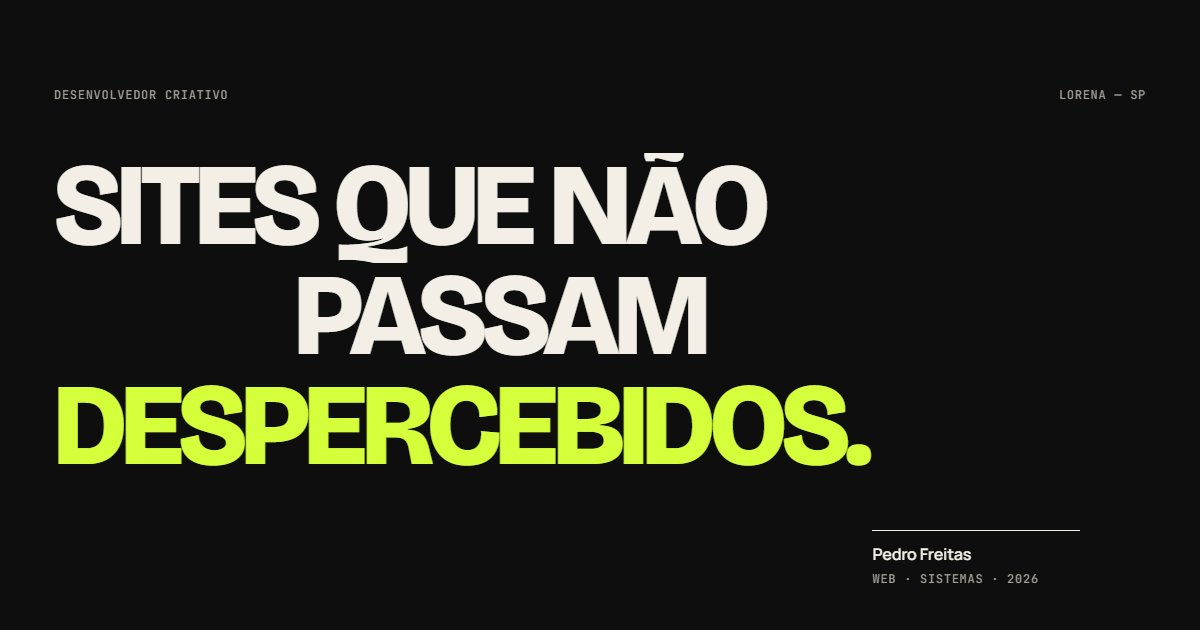
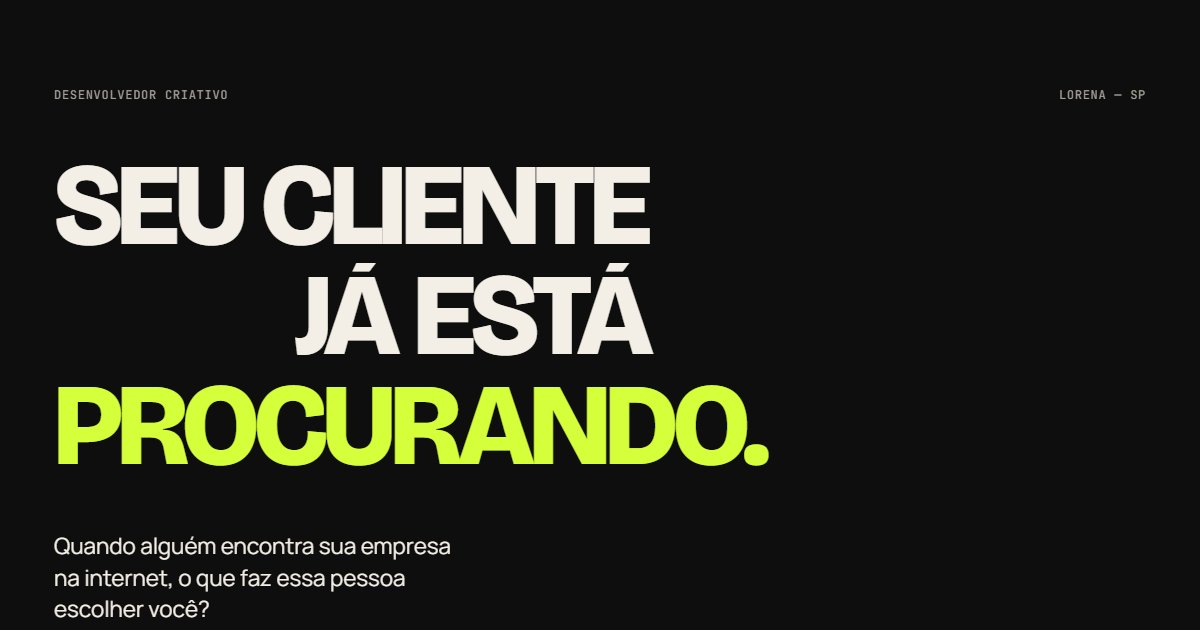
Texto focado no cliente: 'Seu cliente ja esta procurando'
- topo com a pergunta; o dado 8 em cada 10 (BrightLocal, 2026) no lugar do
  'sobre mim'; 'Se sua empresa nao tem um site, outra pode ter' com os 4
  pontos; 'E isso que eu construo' antes dos projetos
- titulo, descricao e imagem de previa do link falam do cliente
- projetos, sistemas, como funciona, contato e menu sem mudanca

Claude-Session: https://claude.ai/code/session_01ATxyj6QgQmaSyEHYf8BGKL

diff --git a/public/index.html b/public/index.html
@@ -3,8 +3,8 @@
 <head>
   <meta charset="utf-8">
   <meta name="viewport" content="width=device-width, initial-scale=1">
-  <title>Pedro Freitas · Sites e sistemas para empresas de Lorena e região</title>
-  <meta name="description" content="Sites que fazem o cliente chamar no WhatsApp, e sistemas pra organizar o negócio. Veja os modelos e os sistemas que eu já fiz.">
+  <title>Seu cliente já está procurando · Sites para empresas de Lorena e região · Pedro Freitas</title>
+  <meta name="description" content="Quando alguém procura sua empresa na internet, o que encontra? Sites e sistemas para empresas de Lorena e região, com o seu WhatsApp.">
   <meta name="theme-color" content="#fbfaf6">
   <script>
     // Tema: claro por padrão; a pessoa troca no botão da barra e o navegador dela lembra.
@@ -24,8 +24,8 @@
 
   <meta property="og:type" content="website">
   <meta property="og:url" content="https://pedrofreitasdev.vercel.app/">
-  <meta property="og:title" content="Pedro Freitas · Sites e sistemas para empresas">
-  <meta property="og:description" content="Sites que fazem o cliente chamar no WhatsApp. Lorena e região.">
+  <meta property="og:title" content="Seu cliente já está procurando.">
+  <meta property="og:description" content="Quando alguém encontra sua empresa na internet, o que faz essa pessoa escolher você? Sites para empresas de Lorena e região.">
   <meta property="og:image" content="https://pedrofreitasdev.vercel.app/og.jpg">
   <meta property="og:image:width" content="1200">
   <meta property="og:image:height" content="630">
@@ -78,10 +78,11 @@
 
       <div class="topo__centro">
         <h1 class="topo__titulo">
-          <span class="linha linha--a"><span>Sites que não</span></span>
-          <span class="linha linha--b"><span>passam</span></span>
-          <span class="linha linha--c"><span class="marca">despercebidos.</span></span>
+          <span class="linha linha--a"><span>Seu cliente</span></span>
+          <span class="linha linha--b"><span>já está</span></span>
+          <span class="linha linha--c"><span class="marca">procurando.</span></span>
         </h1>
+        <p class="topo__pergunta">Quando alguém encontra sua empresa na internet, o que faz essa pessoa escolher você?</p>
         <p class="topo__assinatura">
           <span class="topo__nome">Pedro Freitas</span>
           <span class="mono">Web · Sistemas · 2026</span>
@@ -90,7 +91,7 @@
 
       <div class="topo__baixo mono">
         <a class="topo__rolar" href="#sobre"><span aria-hidden="true">↓</span> Explorar</a>
-        <a class="topo__recente sublinha" href="#trabalhos">Recente — Forno de Pedra <span aria-hidden="true">↓</span></a>
+        <a class="topo__recente sublinha" href="#trabalhos">Ver exemplos <span aria-hidden="true">↓</span></a>
       </div>
     </section>
 
@@ -102,28 +103,53 @@
       </div>
     </div>
 
-    <!-- 2 · SOBRE -->
-    <section class="secao sobre" id="sobre" aria-labelledby="sobre-titulo">
-      <p class="rotulo mono">(01) Sobre</p>
-      <h2 class="sobre__titulo revela" id="sobre-titulo">
-        <span class="linha"><span>Faço sites</span></span>
-        <span class="linha"><span>que as pessoas</span></span>
-        <span class="linha"><span class="marca">lembram.</span></span>
+    <!-- 2 · O DADO: o cliente pesquisa antes. O id continua "sobre" pro menu não quebrar. -->
+    <section class="secao dado" id="sobre" aria-labelledby="dado-titulo">
+      <p class="rotulo mono">(01) Antes de escolher</p>
+      <div class="dado__grade">
+        <div class="dado__destaque">
+          <h2 class="dado__numero revela" id="dado-titulo"><span class="linha"><span>8 em cada 10</span></span></h2>
+          <p class="dado__legenda sobe">consumidores pesquisaram negócios locais na internet recentemente.</p>
+          <p class="dado__fonte mono sobe">Fonte: BrightLocal, 2026</p>
+        </div>
+        <div class="dado__textos">
+          <p class="sobe">Antes de mandar uma mensagem, pedir um orçamento ou visitar uma empresa, muita gente pesquisa primeiro.</p>
+          <p class="sobe">E quando isso acontece, seu site ajuda a decidir se sua empresa parece <strong>profissional, confiável e preparada pra atender.</strong></p>
+        </div>
+      </div>
+    </section>
+
+    <!-- 3 · A COMPARAÇÃO: sem site, o cliente vai pra outra -->
+    <section class="secao comparar" aria-labelledby="comparar-titulo">
+      <p class="rotulo mono">(02) A primeira impressão</p>
+      <h2 class="comparar__titulo revela" id="comparar-titulo">
+        <span class="linha"><span>Se sua empresa</span></span>
+        <span class="linha"><span>não tem um site,</span></span>
+        <span class="linha"><span class="marca">outra pode ter.</span></span>
       </h2>
-      <div class="sobre__lado">
-        <p class="sobe">Crio sites rápidos, modernos e pensados pra transformar visita em conversa no WhatsApp. Para comércio, consultório, restaurante e quem mais tiver o que mostrar.</p>
-        <p class="mono sobe">HTML · CSS · JavaScript<br>Feito à mão, sem template<br>No ar pela Vercel</p>
+      <div class="comparar__grade">
+        <div class="comparar__textos">
+          <p class="sobe">Quando alguém procura o serviço que você oferece, provavelmente vai comparar opções.</p>
+          <p class="sobe">Um bom site deixa claro, em poucos segundos:</p>
+        </div>
+        <ol class="pontos">
+          <li class="sobe"><span class="mono">01</span>Quem você é</li>
+          <li class="sobe"><span class="mono">02</span>O que você faz</li>
+          <li class="sobe"><span class="mono">03</span>Por que escolher sua empresa</li>
+          <li class="sobe"><span class="mono">04</span>Como entrar em contato</li>
+        </ol>
       </div>
     </section>
 
     <!-- 3 · TRABALHOS -->
     <section class="trabalhos" id="trabalhos" aria-labelledby="trabalhos-titulo">
       <div class="secao trabalhos__cabeca">
-        <p class="rotulo mono">(02) Trabalhos · 06 projetos</p>
+        <p class="rotulo mono">(03) Trabalhos · 06 projetos</p>
         <h2 class="gigante revela" id="trabalhos-titulo">
-          <span class="linha"><span>Trabalhos</span></span>
-          <span class="linha linha--recuo"><span>selecionados</span></span>
+          <span class="linha"><span>É isso que</span></span>
+          <span class="linha linha--recuo"><span>eu construo.</span></span>
         </h2>
+        <p class="trabalhos__apoio sobe">Seu site precisa fazer esse trabalho por você.</p>
       </div>
 
       <!-- SITES -->
@@ -235,7 +261,7 @@
     <!-- 4 · COMO FUNCIONA -->
     <section class="secao passos" aria-labelledby="passos-titulo">
       <div class="passos__cabeca">
-        <p class="rotulo mono">(03) Como funciona</p>
+        <p class="rotulo mono">(04) Como funciona</p>
         <h2 class="passos__titulo revela" id="passos-titulo"><span class="linha"><span>Do primeiro oi</span></span><span class="linha"><span>ao site no ar.</span></span></h2>
       </div>
       <ol class="passos__lista">
@@ -247,7 +273,7 @@
 
     <!-- 5 · CONTATO -->
     <section class="secao contato" id="contato" aria-labelledby="contato-titulo">
-      <p class="rotulo mono">(04) Contato</p>
+      <p class="rotulo mono">(05) Contato</p>
       <div class="contato__grade">
         <h2 class="contato__titulo revela" id="contato-titulo">
           <span class="linha"><span>Bora colocar sua</span></span>

diff --git a/public/css/estilo.css b/public/css/estilo.css
@@ -194,7 +194,7 @@ a:hover .seta, a:focus-visible .seta { transform: translate(3px, -3px); }
 .topo__centro { align-self: center; display: grid; gap: 2.4rem; padding: 3rem 0 2rem; }
 
 .topo__titulo {
-  font-size: clamp(2.2rem, min(10.6vw, 8.4vw + 1rem), 7.6rem);   /* ~120px no computador: forte, sem ocupar a tela de ponta a ponta */
+  font-size: clamp(2.4rem, min(12.4vw, 8.4vw + 1rem), 7.6rem);   /* ~120px no computador; no celular cresce até caber "PROCURANDO." */
   letter-spacing: -.045em;
   line-height: .9;
   translate: 0 calc(var(--p) * -70px);
@@ -241,6 +241,15 @@ a:hover .seta, a:focus-visible .seta { transform: translate(3px, -3px); }
 }
 @keyframes risca { to { transform: scaleX(1); } }
 .topo__nome { font: 600 1rem/1.2 var(--sem); letter-spacing: -.01em; }
+/* a pergunta que o dono da empresa tem que se fazer: logo abaixo do título, antes da assinatura */
+.topo__pergunta {
+  max-width: 30ch;
+  font-size: clamp(1.05rem, 1.9vw, 1.4rem);
+  line-height: 1.4;
+  translate: 0 calc(var(--p) * -40px);
+  opacity: 0;
+  animation: aparece-leve .8s ease .6s forwards;
+}
 .topo__assinatura .mono { color: var(--apagado); }
 @keyframes aparece-leve { to { opacity: 1; } }
 
@@ -266,16 +275,40 @@ a:hover .seta, a:focus-visible .seta { transform: translate(3px, -3px); }
 .faixa__trilho span { padding-right: .5em; font: 800 clamp(1.1rem, 2.8vw, 2rem)/1 var(--titulo); letter-spacing: -.03em; text-transform: uppercase; white-space: nowrap; }
 @keyframes faixa { to { transform: translateX(-50%); } }
 
-/* ---------- 2 · sobre ---------- */
-.sobre__titulo { font-size: clamp(2.3rem, 7.4vw, 6.4rem); }
-.sobre__lado { display: grid; gap: 1.6rem; max-width: 30rem; margin: 2.8rem 0 0 auto; }
-.sobre__lado p:first-child { font-size: clamp(1.05rem, 1.8vw, 1.3rem); line-height: 1.45; }
-.sobre__lado .mono { color: var(--apagado); line-height: 1.9; }
+/* ---------- 2 · o dado: o número é a peça principal, o texto vem em blocos curtos ---------- */
+.dado__grade { display: grid; gap: 3rem; }
+.dado__numero { font-size: clamp(3.2rem, 15vw, 11rem); letter-spacing: -.05em; line-height: .86; }
+.dado__numero .linha { white-space: nowrap; }   /* "8 em cada 10" nunca quebra: é uma coisa só */
+.dado__legenda { margin-top: 1.2rem; font-size: clamp(1.1rem, 2vw, 1.5rem); line-height: 1.35; max-width: 28ch; }
+.dado__fonte { margin-top: 1rem; color: var(--apagado); }
+.dado__textos { display: grid; gap: 1.4rem; max-width: 30rem; }
+.dado__textos p { font-size: clamp(1.02rem, 1.4vw, 1.18rem); line-height: 1.5; color: var(--apagado); }
+.dado__textos strong { color: var(--texto); font-weight: 600; }
+
+/* ---------- 3 · a comparação: título forte + os 4 pontos como índice, não como cards ---------- */
+.comparar__titulo { font-size: clamp(2.2rem, 7vw, 6rem); }
+.comparar__grade { display: grid; gap: 2.4rem; margin-top: 3rem; }
+.comparar__textos { display: grid; gap: 1rem; max-width: 30rem; }
+.comparar__textos p { font-size: clamp(1.02rem, 1.4vw, 1.18rem); line-height: 1.5; color: var(--apagado); }
+.comparar__textos p:last-child { color: var(--texto); }
+.pontos { list-style: none; padding: 0; }
+.pontos li {
+  display: flex;
+  align-items: baseline;
+  gap: 1.2rem;
+  padding: 1rem 0;
+  border-top: 1px solid var(--linha);
+  font: 800 clamp(1.35rem, 3.4vw, 2.4rem)/1.05 var(--titulo);
+  letter-spacing: -.025em;
+}
+.pontos li:last-child { border-bottom: 1px solid var(--linha); }
+.pontos .mono { flex: none; width: 2.2rem; color: var(--apagado); letter-spacing: .06em; }
 
 /* ---------- 3 · trabalhos ---------- */
 .trabalhos__cabeca { padding-bottom: 2rem; }
 .gigante { font-size: clamp(2.2rem, 7.4vw, 6.4rem); }
 .linha--recuo { padding-left: 0; }
+.trabalhos__apoio { margin-top: 1.4rem; font-size: clamp(1.05rem, 1.6vw, 1.3rem); color: var(--apagado); max-width: 30ch; }
 
 .categoria { position: relative; padding: 3rem var(--lado) 2rem; background: var(--fundo); color: var(--texto); }
 .categoria__cabeca { display: grid; gap: 1rem; padding-top: 1.1rem; margin-bottom: 3rem; border-top: 1px solid var(--texto); }
@@ -484,7 +517,14 @@ a:hover .seta, a:focus-visible .seta { transform: translate(3px, -3px); }
   .projeto:nth-of-type(even) .fone.projeto__fone { right: auto; left: 5%; rotate: -4deg; }
   .fone.projeto__fone { width: 19%; }
   .projeto__nome { font-size: clamp(1.8rem, 2.5vw, 2.7rem); }  /* coluna de 3/12: "ODONTOLOGIA" invadia a imagem */
-  .sobre__lado { margin-right: 6vw; }
+  /* o número ocupa a largura toda; embaixo, a legenda à esquerda e os textos à direita */
+  .dado__grade { grid-template-columns: 7fr 4fr; column-gap: 4rem; row-gap: 0; }
+  .dado__destaque { display: contents; }
+  .dado__numero { grid-column: 1 / -1; }
+  .dado__legenda, .dado__fonte { grid-column: 1; }
+  .dado__textos { grid-column: 2; grid-row: 2 / span 2; align-self: start; margin-top: 1.2rem; }
+  .comparar__grade { grid-template-columns: 4fr 7fr; column-gap: 4rem; align-items: start; }
+  .trabalhos__apoio { margin-left: 8vw; }
   .linha--recuo { padding-left: 8vw; }
   /* como funciona: cabeça à esquerda, índice à direita */
   .passos { display: grid; grid-template-columns: 5fr 7fr; column-gap: 4rem; align-items: start; }
@@ -496,7 +536,7 @@ a:hover .seta, a:focus-visible .seta { transform: translate(3px, -3px); }
 
 /* ---------- quem pediu menos movimento ---------- */
 @media (prefers-reduced-motion: reduce) {
-  .topo__titulo .linha > span, .topo__meta, .topo__assinatura, .topo__baixo, .topo__rolar span, .faixa__trilho { animation: none; transform: none; opacity: 1; }
+  .topo__titulo .linha > span, .topo__meta, .topo__pergunta, .topo__assinatura, .topo__baixo, .topo__rolar span, .faixa__trilho { animation: none; transform: none; opacity: 1; }
   .topo__assinatura::before { animation: none; transform: none; }
   [data-tema="claro"] .topo__titulo .marca { animation: none; background-size: 100% 34%; }
   .barra, .menu, .menu__lista a, .zap-fixo, .projeto__tela img, .projeto__fone, .seta, body { transition: none; }

diff --git a/docs/superpowers/specs/2026-09-25-portfolio-design.md b/docs/superpowers/specs/2026-09-25-portfolio-design.md
@@ -188,3 +188,14 @@ As três janelas flutuando ficaram carregadas e com cara de agência genérica. 
 - Nenhuma imagem. Único detalhe: "Recente — Forno de Pedra ↓" levando pros trabalhos.
 - Movimento: linhas surgem da máscara; rolagem sobe o título e os textos pequenos em
   velocidades diferentes; mouse move as linhas poucos pixels (a do meio um pouco mais).
+
+## Texto focado no cliente, 26/09/2026 (sem redesign)
+
+Pedido do Pedro: fazer o visitante pensar "se alguém procurar minha empresa hoje, o que vai encontrar?".
+Sequência: topo "SEU CLIENTE / JÁ ESTÁ / PROCURANDO." + a pergunta → dado "8 em cada 10 consumidores
+pesquisaram negócios locais na internet recentemente. Fonte: BrightLocal, 2026" (texto e fonte exatamente
+como o Pedro passou; NÃO escrever "procuram o site") → "Se sua empresa não tem um site, outra pode ter."
++ os 4 pontos → "É isso que eu construo." → projetos (intactos) → como funciona → contato.
+O antigo "Faço sites que as pessoas lembram" (sobre mim) saiu; o id "sobre" ficou no dado pro menu funcionar.
+ATENÇÃO: não achei esse "8 em cada 10" na página da BrightLocal que consegui abrir (ela traz "97% dos
+consumidores leem avaliações de negócios locais"). O Pedro precisa confirmar o número.
